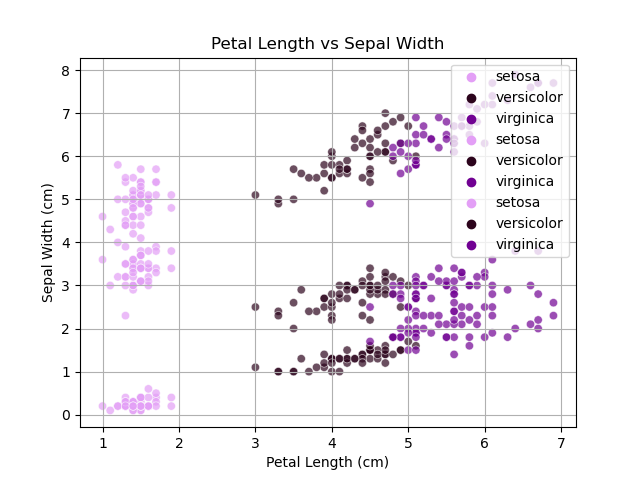
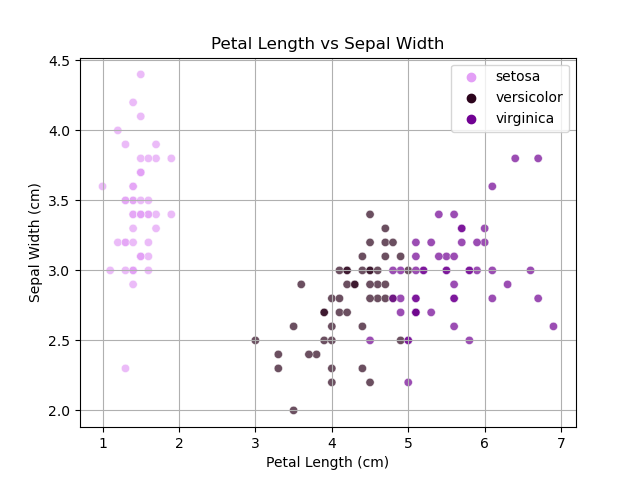
Project finished

diff --git a/analysis.py b/analysis.py
@@ -121,7 +121,6 @@ plt.title("Petal Length vs Petal Width")
 plt.grid(True)
 plt.legend()
 
-plt.show()
 
 
 #2 Plot petal length vs sepal length
@@ -136,7 +135,7 @@ plt.title("Petal Length vs Sepal Length")
 plt.grid(True)
 plt.legend()
 
-plt.show()
+
 
 #3 Plot petal length vs sepal width
 #create plot
@@ -149,7 +148,8 @@ plt.title("Petal Length vs Sepal Width")
 plt.grid(True)
 plt.legend()
 
-plt.show()
+
+
 
 #4 Plot petal width vs sepal length
 #create plot
@@ -162,7 +162,8 @@ plt.title("Petal Width vs Sepal Length")
 plt.grid(True)
 plt.legend()
 
-plt.show()
+
+
 
 #5 Plot petal width vs sepal width
 #create plot
@@ -175,7 +176,8 @@ plt.title("Petal Width vs Sepal Width")
 plt.grid(True)
 plt.legend()
 
-plt.show()
+
+
 
 #6 Plot sepal length vs sepal width
 #create plot
@@ -188,8 +190,8 @@ plt.title("Sepal Length vs Sepal Width")
 plt.grid(True)
 plt.legend()
 
-plt.show()
 '''
+
 
 '''
 #output a summary of each variable to a single text file 
@@ -240,11 +242,7 @@ for i,  specie in enumerate(species, start=1):
 
 plt.tight_layout()
 plt.show()
-#This plot visually demonstrates that for both the virginica and versicolor species, there's a tendency towards longer lengths and 
-#narrower widths for both the petal and sepal. However, in the case of the setosa species, we observe a distinct pattern: its petals are 
-#not only long but also wide, while the sepals are notably shorter in both width and length compared to the other species.
-#Furthermore, it can be observed that there is less variation in the sepal size of the setosa, than of the other species
-#The setosa also has the highest number of outliers of any of the species, demonstrated by the Os located outside the whiskers of the box plot.
+
 '''
 
 '''
@@ -269,10 +267,8 @@ graph('petal_length')
 plt.subplot(224) 
 graph('petal_width') 
   
-plt.show()
-#(reword)Species Setosa has the smallest features and less distributed with some outliers.
-#Species Versicolor has the average features.
-#Species Virginica has the highest features
+
+
 '''
 
 

diff --git a/README.md b/README.md
@@ -4,7 +4,7 @@
 This repository contains my analysis of the Iris dataset. The purpose of this repoitory is for my final project in the module Programming and Scripting, in Semester 1 of the Higher Diploma in Data Analytics at ATU.
 ---
 ## About the Iris dataset
-The Iris dataset is a very commonly used dataset in the world of data science. It has been called the "Hello World of data science". The data is also sometimes known as  Fisher's Iris data set, after the biologist and statistician Ronald Fisher used it in his who used it in his 1936 paper 'The use of multiple measurements in taxonomic problems'.
+The Iris dataset is a very commonly used dataset in the world of data science. It has been called the "Hello World of data science". The data is also sometimes known as  Fisher's Iris data set, after the biologist and statistician Ronald Fisher used it in his 1936 paper 'The use of multiple measurements in taxonomic problems'.
 
 The data set has 50 samples each of three different species of Iris; Iris Setosa, Iris Virginica and Iris Versicolor.
 
@@ -57,69 +57,113 @@ Petal Length, on the other hand, appears to be bimodally distributed. The standa
 
 Similarly to Petal Length, Petal width is also bimodally distributed. It again has a relatively high standard deviation of 0.762238 (about 63% of the mean) suggesting a higher variability amongst the data.
 
+---
 
+In the next part of my analysis I created plots comparing each of the numerical variables to understand the realtionship between these variables. Each point on the plots represents an Iris flower, the different shades of purple of the dots represent the three different species of Iris.
 
+### Sepal Length vs. Sepal Width
+![Plot Image](plot_slen_x_swidth.png)
 
-### Correlation of heatmap
+This figure shows the relationship between Sepal Length and Sepal Width. The data points on this plot are quite spread out, suggesting a higher level of variation within the data. There appears to be a weak positive correlation between sepal length and sepal width. This means that there is a *slight* tendancy for flowers that have longer sepals to also have wider sepals.
+
+### Petal Length vs. Petal Width
+![Plot Image](plot_plen_x_pwidth.png)
+
+This figure shows the relationship between Petal Length and Petal Width. In this plot the data points are much less spread out and are clustered mainly by species. There is a strong positive correlation between these variables, indicating that as petal length increases, petal width increases proportionately with it. It is also clear that the Setosa species tend to have much smaller petals than the other two species.
+
+### Petal Length vs. Sepal Length
+![Plot Image](plot_plen_x_slen.png)
+
+This figure shows the relationship between Petal Length and Sepal Length. Again in this plot the data is clustered by species. There is a strong positive correlation between these vaiables for the species Versicolor and Virginica. However, there does does not appear to be much correlation at all in the Setosa's. This implies that an increase in petal length does not effect the length of the sepal in the species Setosa. 
+
+### Petal Length vs. Sepal Width
+![Plot Image](plot_plen_x_swidth.png)
+
+This figure shows the relationship between Petal Length and Sepal Width. The data in this plot is more spread out than the previous, but is still separated into clustered. Similarly to the last, there does not appear to be any correlation between petal length and sepal width in the species Setosa, but there is decent positive correlation between the other two species. Interesingly, it can be observed that the sepal of the Setosa seems to be wider in general than it's counterparts, where in every other aspect it tends to be smaller.
+
+### Petal Width vs. Sepal Length
+![Plot Image](plot_pwidth_x_slen.png)
+
+This figure shows the relationship between Petal Width and Sepal Length. The data in this plot is also spread out more than previous plots, but is similar in that there appears to be some positive correlation between the variables for the species Versicolor and Virginica, whereas there is little to no correlation between petal width and sepal length for the species Setosa.
+
+### Petal Width vs. Sepal Width
+![Plot Image](plot_pwidth_x_swidth.png)
+
+This figure shows the relationship between Petal Width and Sepal Width. This plot has very similar characteristics to the previous one, oneof the main differences being that this plot demonstrates,once again, that Setosa's have much wider Sepals than the other species
+
+### Comparison
+![Plot Image](plot_alltogether.png)
+
+This plot simply displays each of the individual scatter plots in one figure to highlight the similarities and differences in correlation between each plot.
+---
+
+Next I created some Box Plots to get a deeper understanding of the distribution of the data.
+
+### Boxplot by Species
+![Plot Image](box_by_species.png)
+
+This plot visually demonstrates that for both the Virginica and Versicolor species, there's a tendency towards longer lengths and narrower widths for both the petal and sepal. However, in the case of the Setosa species, we observe a distinct pattern: its petals the shortest and narrowest of the bunch, while the sepals are notably much wider compared to the other species. Furthermore, it can be observed that there is less variation in the sepal size of the setosa, than of the other species. The setosa also has the highest number of outliers of any of the species, demonstrated by the Os located outside the whiskers of the box plot.
+
+### Boxplot by Variable
+![Plot Image](box_by_variable.png)
+
+This plot demonstrates clearly that the species Setosa has the smallest features and is less distributed with the most outliers. The species Virginica tends to have the largest features, while the species Versicolour falls in between them, closer to Virginica than Setosa.
+
+---
+
+The final plot I created in this analysis is a heatmap of all of the variables, which allows me to determine patterns in the correlation of this data.
+
+### Heatmap
+
+![Plot Image](heatmap.png)
+
 
 This heatmap shows the pairwise correlation coefficients between the numeric variables giving a clearer picure of how features are related to eachother.
-This is what the heatmap tells us about thecorrelation of variables:
+This is what the heatmap tells us about the correlation of variables:
 * Petal length and width are very highly correlated
 * Petal length and sepal length are also strongly correlation
 * Similarly, Petal width and Sepal Length are highly correlated.
-* The varables with the lowest correlation are Sepal width and Sepal length.
+* The variables with the lowest correlation are Sepal width and Sepal length.
+
+
+## Summary & Conclusion
+
+For this analysis I mainly used the Pandas, Matpllotlib and Seaborn modules to investigate, analyse and visualise the Iris dataset.
+
+The Iris dataset is quite small, with only 150 observations so I am limited in the conclusions that I can draw from this dataset. But from my analysis I have learned:
+
+The Setosa is clearly different from the other species, notably with much wider Sepals that have little correlation with its other features. However, in all other asects the Setosa tends to be the smalest of the flowers. 
+
+It is not as simple to separate the species Versicolor and Virginica from eachother, as there is quite a bit of overlap between these species. But in general I can conclude that the species Virginica is the largest flower in all aspects except sepal width, with Versicolor following closely behind. These variables also share a similar corelation between each of the variables.
+
+Some other analyses use histplots from the seaborn library to compare the distribution of data in each variable. For further analysis it would also be possible to create separate heatmaps per species to examine in more detail how the correlation varies by species. 
 
 
 
-
-
-### MVP Project plan
-Get these tasks done by 12/05 and from there add extras
-* ~~create repository~~
-* Write a summary of the dataset in the readme
-* ~~Download dataset & add to repository (done in Ian's lectures)~~
-* ~~have analysis.py output a summary of each variable to a single text file (extracting the result of pandas . describe() of each variable to a txt file.)~~ (Need to test)
-* ~~Create a histrgram of sepal length~~
-* ~~Create a histrgram of sepal width~~
-* ~~Create a histrgram of petal length~~
-* ~~Create a histrgram of petal width~~
-* ~~Create a bar chart of flower type~~
-* ~~Create a scatter plot of sepal length x width~~
-* ~~Create a scater plot of petal length x width~~
-* ~~Create a scater plot of petal length x sepal width~~
-* ~~Create a scater plot of petal length x sepal length~~
-* ~~Create a scatter plot of petal width x sepal width~~
-* ~~Create a scatter plot of petal width x sepal length~~
-### Improved Project plan
-Aim to complete by 19/20 so there is time for final touches
-* ~~Convert these plots to seaborn, so they can be viewed together with the different species seperated by~~ colour
-* ~~Add a boxplot chage colours to purple and explain it's significance#~~
-* Do some distplots (check the geek4geek source for how to do)
-* Add in some mathematical bits about correlation
-* ~~Use heatmaps to explai correlation (use geeks4geeks source)~~
-* Insert all of the images of the plots created into the readme with a clear narrative
 
 ## Sources
 https://en.wikipedia.org/wiki/Iris_flower_data_set#:~:text=The%20Iris%20flower%20data%20set,example%20of%20linear%20discriminant%20analysis.
 
 https://github.com/mwaskom/seaborn-data/blob/master/iris.csv
 
-Ian's lecture notes as a source
 
 https://www.projectpro.io/recipes/write-text-file-output-of-for-loop
 
-https://www.geeksforgeeks.org/exploratory-data-analysis-on-iris-dataset/ --> V good source
+https://www.geeksforgeeks.org/exploratory-data-analysis-on-iris-dataset/ 
 
 https://github.com/abhikumar22/Exploratory-Data-Analysis-on-IRIS-Dataset/blob/master/EDA_Flower.ipynb
 
-https://www.youtube.com/watch?v=02BFXhPQWHQ --> Vid of anaylsis that doesn't use seaborn
+https://www.youtube.com/watch?v=02BFXhPQWHQ 
 
 https://www.kaggle.com/datasets/uciml/iris
 
-https://towardsdatascience.com/create-and-customize-boxplots-with-pythons-matplotlib-to-get-lots-of-insights-from-your-data-d561c9883643 --> Boxplots
+https://towardsdatascience.com/create-and-customize-boxplots-with-pythons-matplotlib-to-get-lots-of-insights-from-your-data-d561c9883643
 
 https://www.simplypsychology.org/boxplots.html
 
 https://medium.com/@hfahmida/eda-for-iris-dataset-with-boxplots-violin-plots-heatmap-pairwise-plots-535275b4c2a0#:~:text=The%20correlation%20heatmap%20shows%20the,sepal%20length%20and%20petal%20length.
 
-https://zion-oladiran.medium.com/exploratory-data-analysis-iris-dataset-68897497b120 --> another good source for explaining boxplots
+https://zion-oladiran.medium.com/exploratory-data-analysis-iris-dataset-68897497b120 
+
+---
+## End
